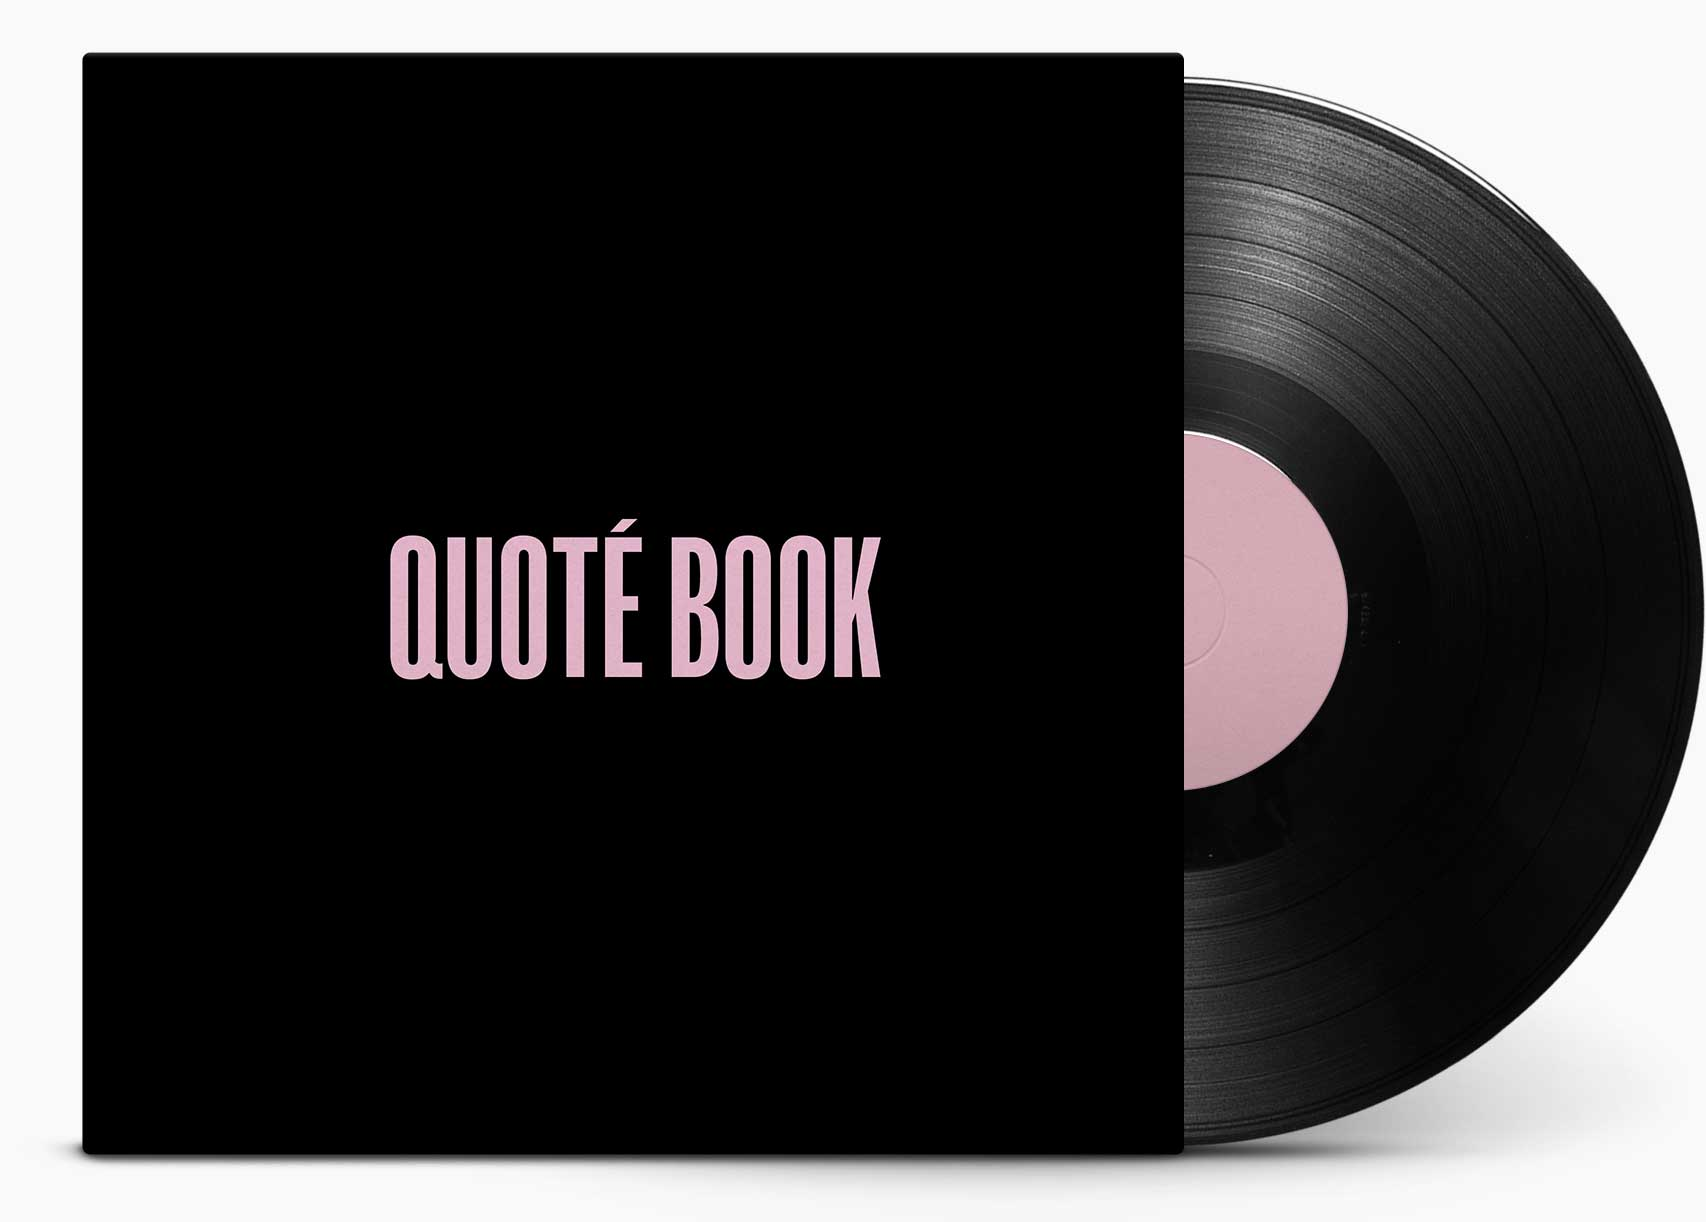
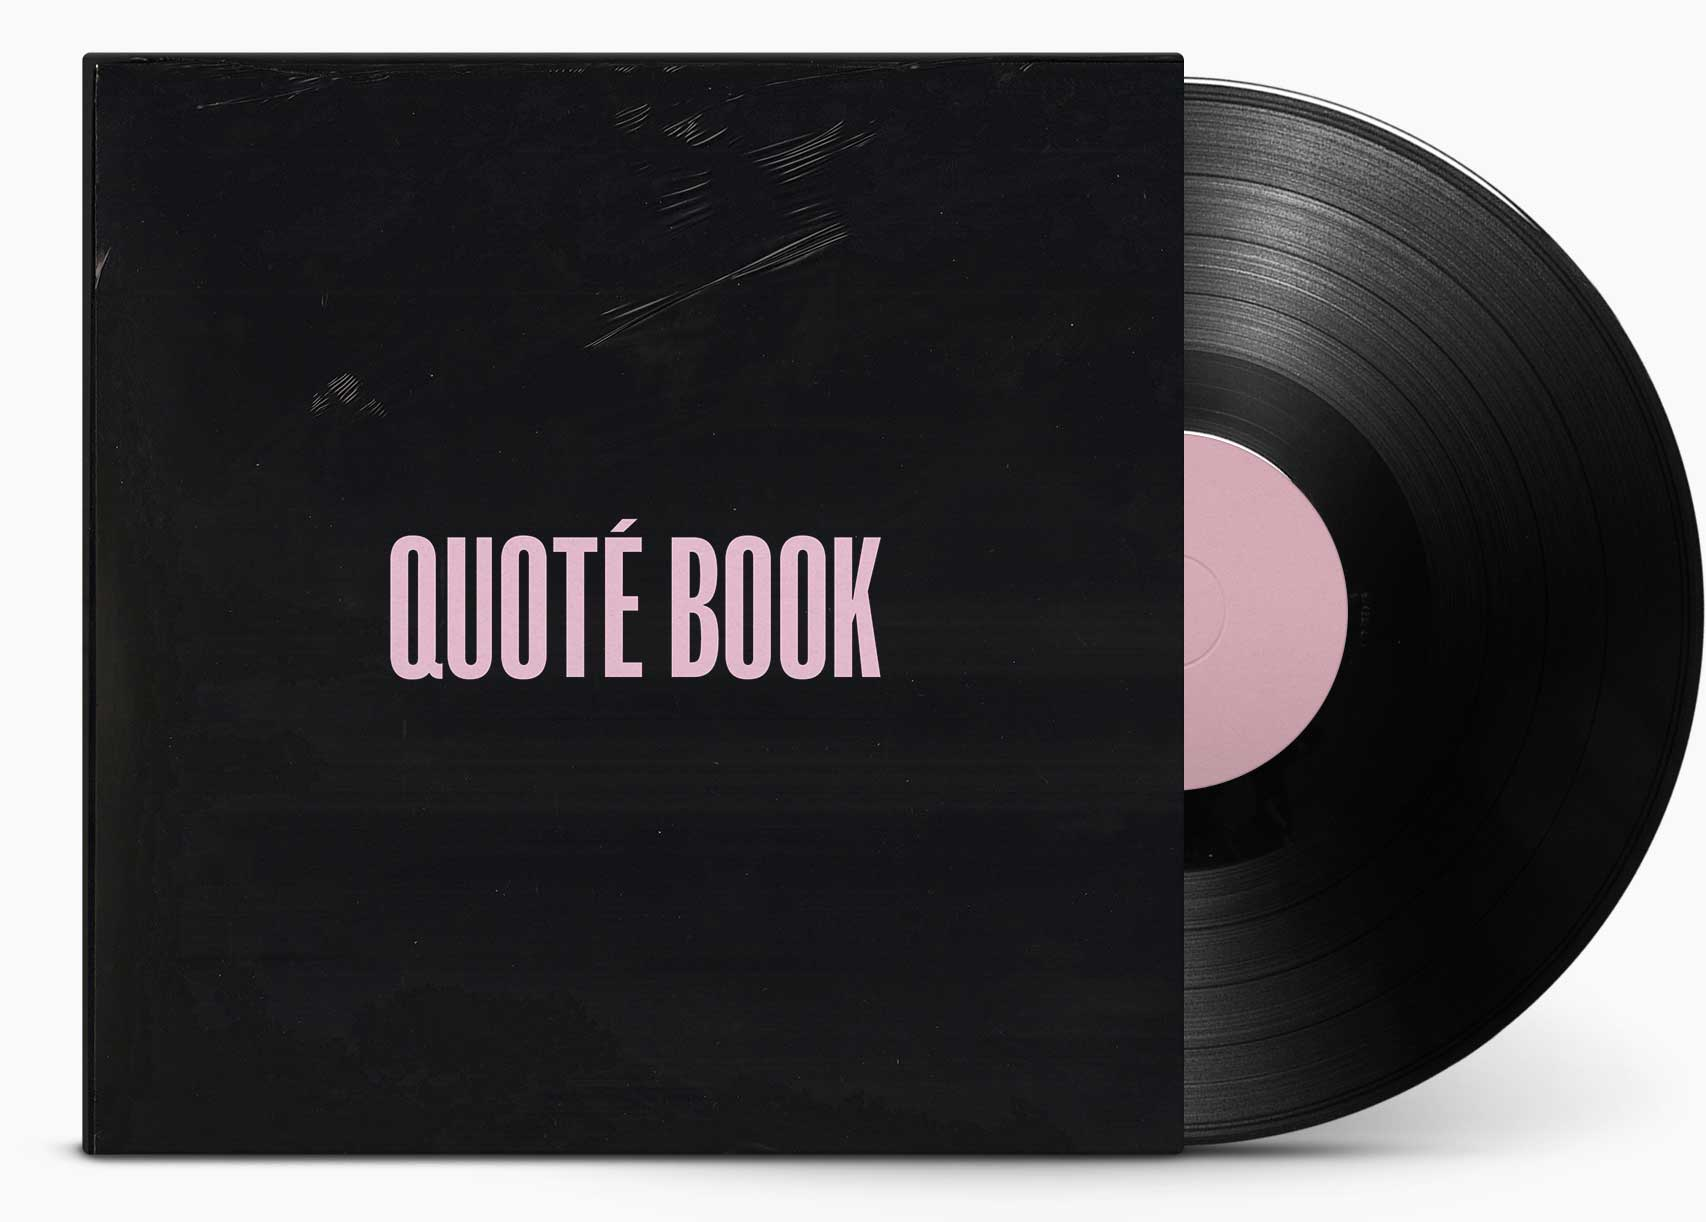
added plastic look to quote book vinyl sleeves

Changed region(s): [[0.0311, 0.0311, 0.7145, 0.964]]

diff --git a/common/casestudy.css b/common/casestudy.css
@@ -593,8 +593,6 @@ html {
     bottom: 75px;
   }
 
-  /* Nicki Minaj */
-
   .queen .project-logo {
     width: 90%;
     bottom: 69px;
@@ -682,7 +680,6 @@ html {
     max-height: 700px;
   }
 
-
   .home {
     display: block;
     width: 150px;
@@ -691,9 +688,10 @@ html {
     left: -35px;
   }
 
+  /* Quote Book */
 
-  .img1 {
-    width: 65%;
+  .quotebook .img1 {
+    width: 60%;
     display: block;
     position: relative;
     margin: auto;
@@ -701,10 +699,11 @@ html {
     top: -14px;
   }
 
-  .project-logo {
+  .quotebook .project-logo {
+    bottom: 90px;
   }
 
-  .img2 {
+  .quotebook .img2 {
     width: 65%;
     top: -170px;
     left: -140px;
